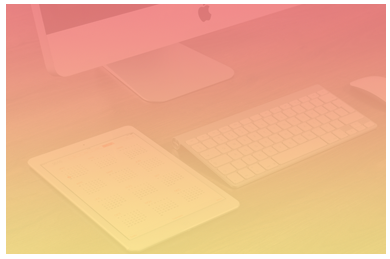
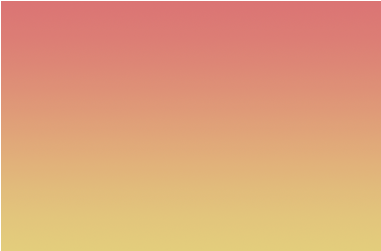
Made changes to the block About Us

diff --git a/www/css/style.min.css b/www/css/style.min.css
@@ -1486,7 +1486,7 @@ a,a:hover{text-decoration:none;color:#fff}
 .about-us .items .item:nth-child(1){background-image:url(../img/first-layer.png)}
 .about-us .items .item:nth-child(2){background-image:url(../img/second-layer.png)}
 .about-us .items .item:nth-child(3){background-image:url(../img/third-layer.png)}
-.about-us .items .item:hover .item-hover{display:block;transition:1s}
+.about-us .items .item:hover .item-hover{opacity:.9;display:block;transition:1s}
 .about-us .items .item-hover{position:absolute;left:0;bottom:0;right:0;top:0;display:none;background-image:url(../img/hover-first-layer.png);background-size:cover;background-repeat:no-repeat;text-align:center;padding-top:100px}
 .about-us .items .item-hover img{margin:auto;display:block}
 .about-us .items .item-hover a{margin-top:10px;font-size:18px;text-transform:uppercase}

diff --git a/www/css/style.css b/www/css/style.css
@@ -6909,6 +6909,7 @@ a:hover {
   background-image: url('../img/third-layer.png');
 }
 .about-us .items .item:hover .item-hover {
+  opacity: .9;
   display: block;
   transition: 1s;
 }

diff --git a/www/less/app.less b/www/less/app.less
@@ -189,6 +189,7 @@ a {
 				background-image: url('../img/third-layer.png');
 			}
 			&:hover .item-hover{
+				opacity: .9;
 				display: block;
 				transition: 1s;
 			}
